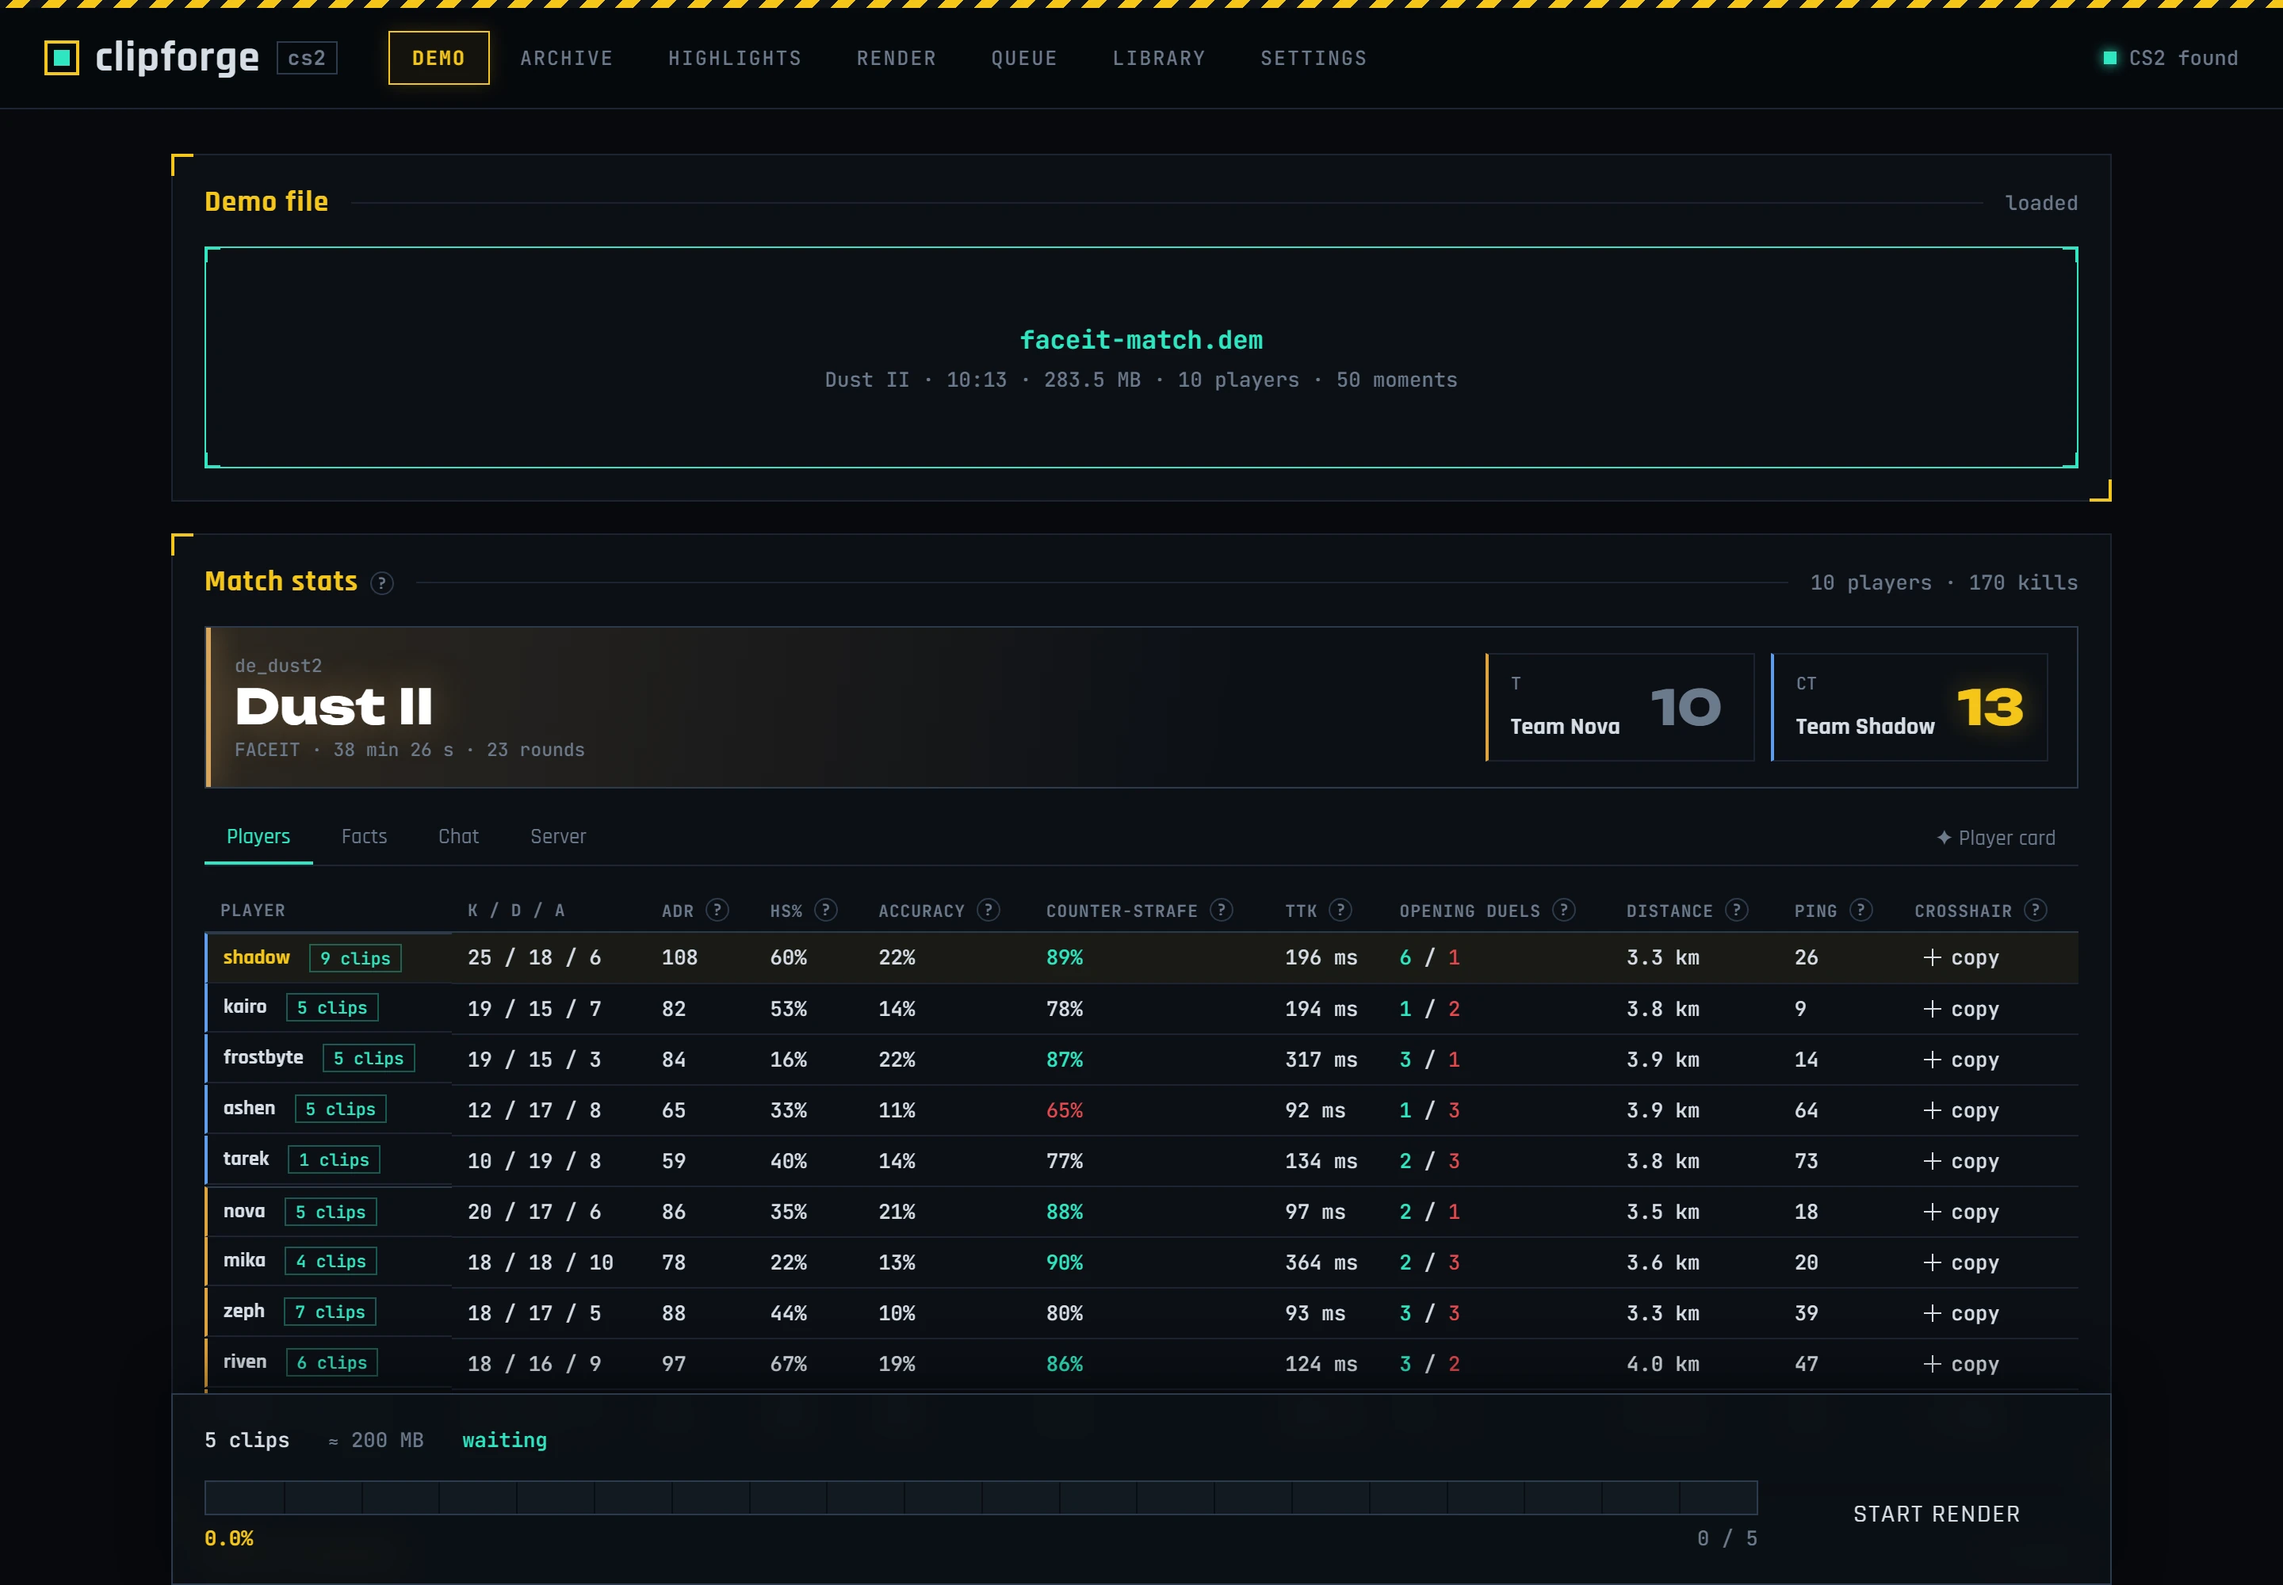
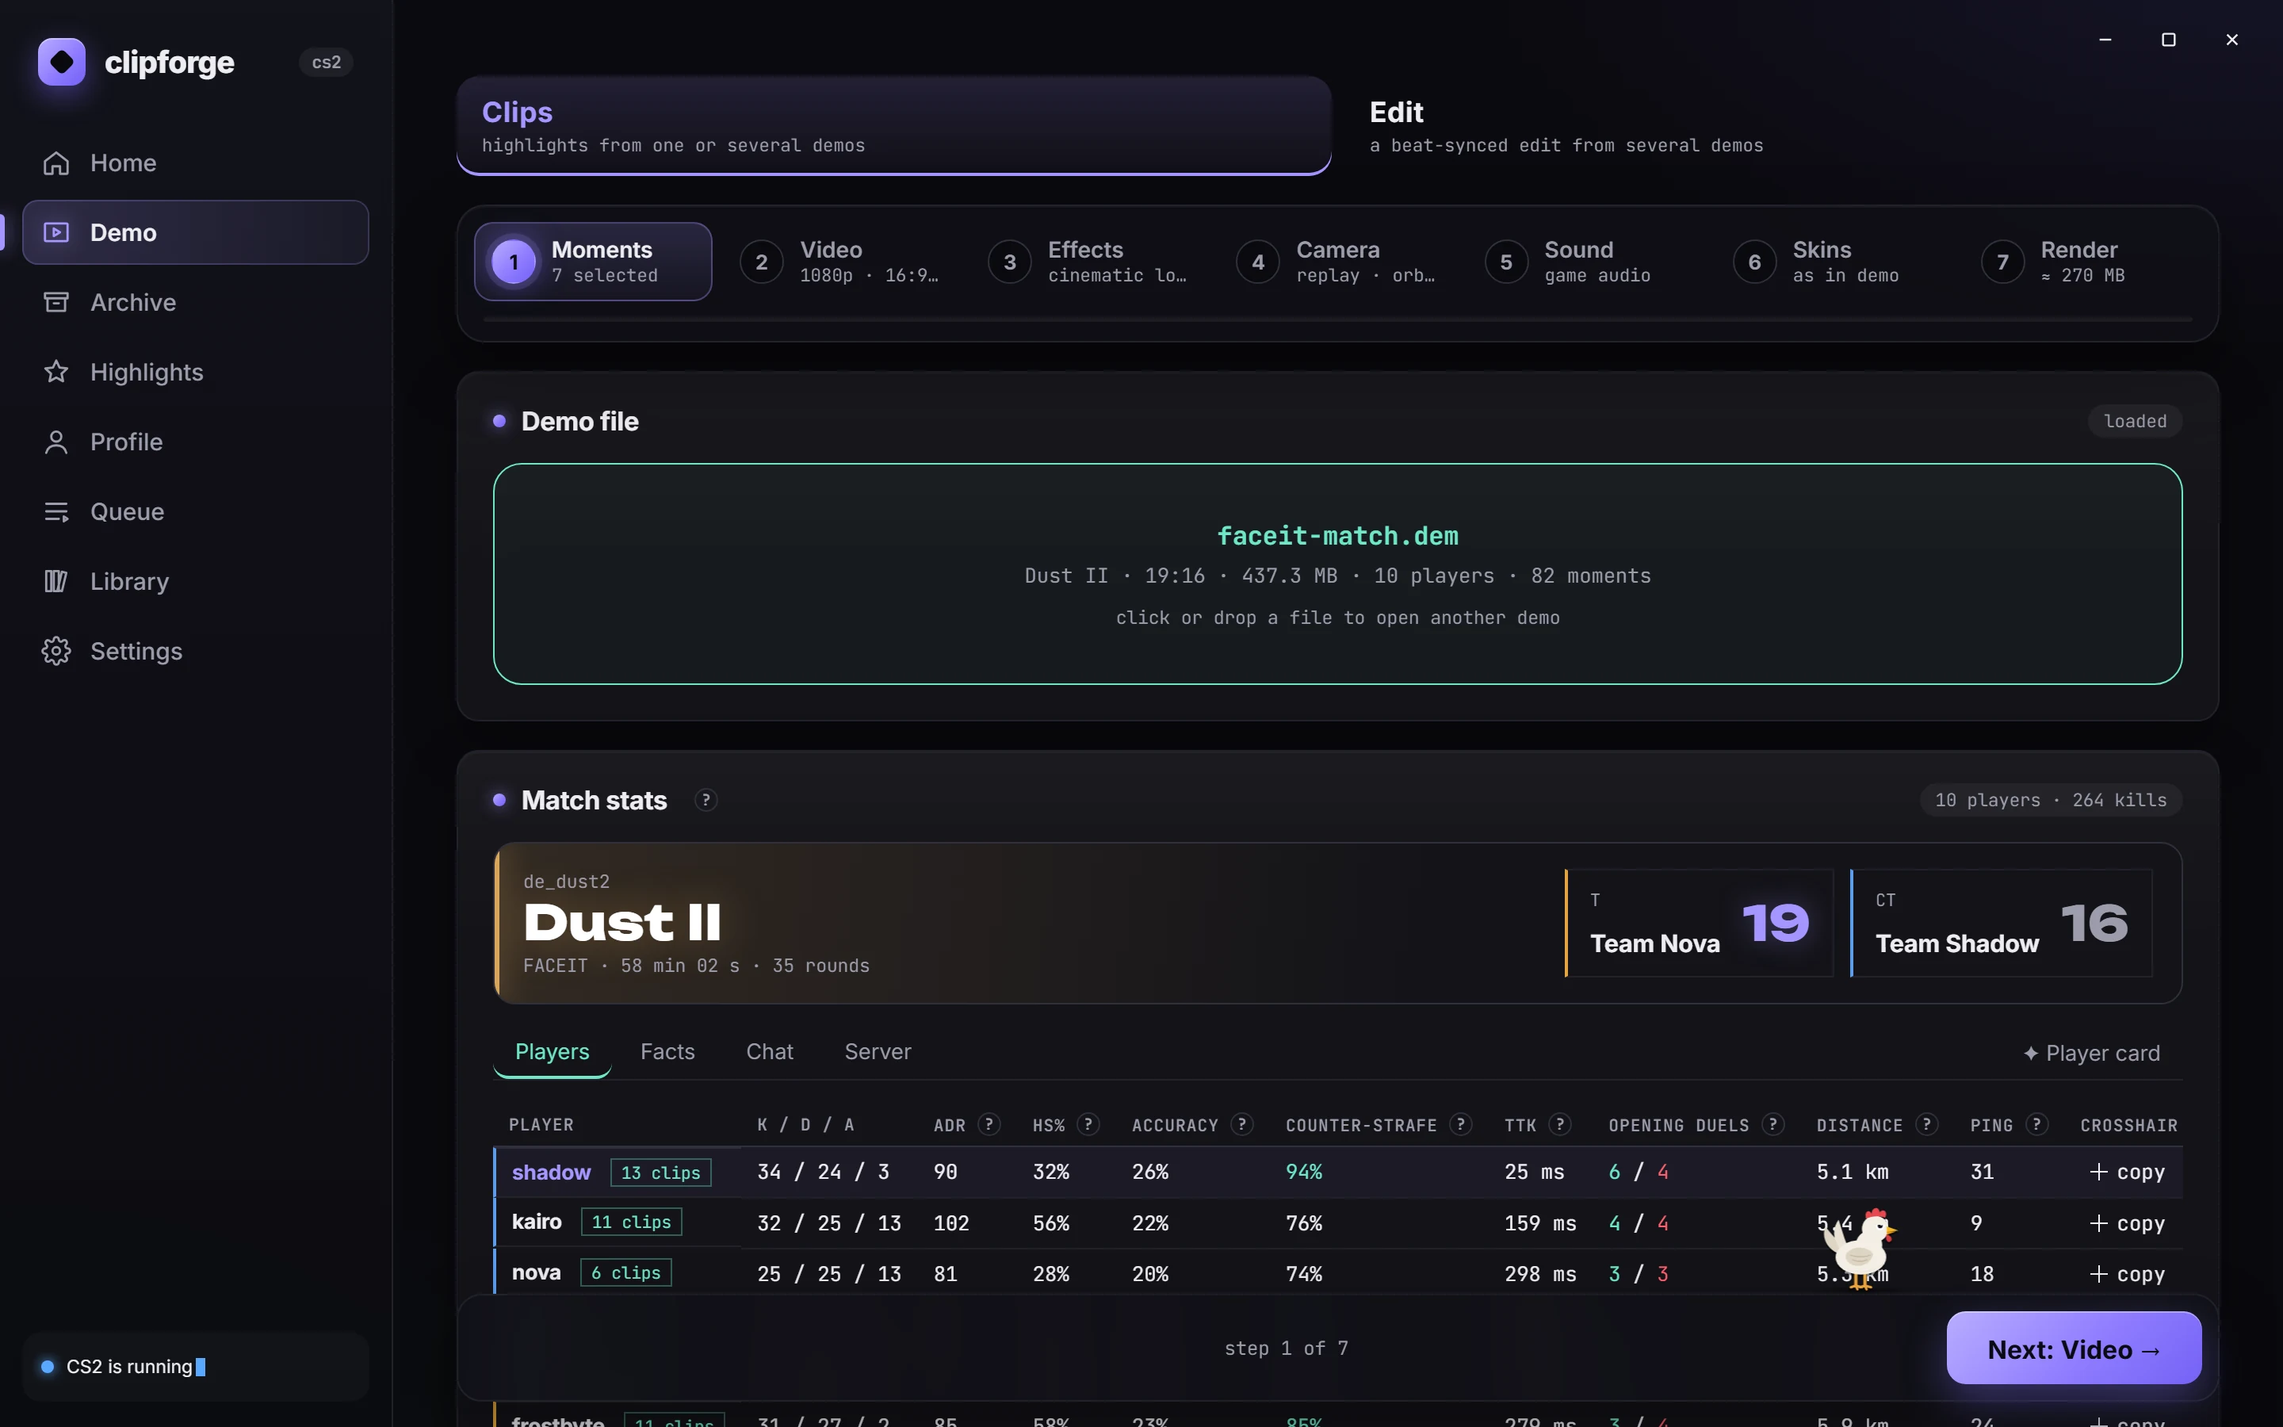
README: Lumen screenshots, step-by-step clips, voice chat and match players

diff --git a/README.md b/README.md
@@ -22,6 +22,17 @@ clipforge finds your best moments, lets you preview them in 3D, records them in-
 
 ## Features
 
+### 🌌 Lumen: a guided look
+Two looks to pick from in **Settings → Appearance**: the classic **Tactical** one and **Lumen**, with a sidebar menu, soft cards and a violet glow.
+- **Clips step by step**: Moments → Video → Effects → Camera → Sound → Skins → Render, with **Back / Next**. The bar on top shows what is set on every step, and any step is one click away
+- The last step sums up everything that goes into the render, and each card takes you back to its step
+- **The chicken shows the way**: it hops onto the panel next to **Next**, sits by **Start render** at the end, and if HLAE or CS2 is missing it stands there with a question. Click it to open Settings
+- **No Windows title bar**: the window buttons live in the app itself, drag the window by the empty space at the top or by the menu
+
+<p align="center"><img src="docs/screenshots/steps-en.webp" alt="Lumen: the render step with the chicken guide" width="100%"></p>
+
+<p align="center"><img src="docs/screenshots/themes-en.webp" alt="Settings: Tactical and Lumen looks" width="100%"></p>
+
 ### ✦ Smart moment picking
 Every round of every player gets a score and tags, the way highlight services do it, but using everything the demo has.
 
@@ -65,6 +76,7 @@ Press **3D** on any moment to watch it right in the app, before CS2 even starts.
 - A **killfeed** with the game's own icons: headshot, wallbang, through smoke, no-scope, blind, assists
 - **With orbit** plays the exact `mirv_campath` that goes to HLAE, so you see where the orbit camera will fly. **Free camera** shows that path as a yellow line
 - A timeline with kill marks, 0.25× / 0.5× / 1× speed and a compact info panel: FPS, tick, weapon, HP, speed, players alive
+- **Voice chat** from FACEIT and community server demos plays along with the moment (Valve matchmaking demos have no voice)
 
 <p align="center"><img src="docs/screenshots/preview3d-en.webp" alt="3D preview: player POV with the weapon, crosshair and killfeed" width="100%"></p>
 
@@ -81,6 +93,7 @@ Change weapon skins, the knife model and finish, and gloves. clipforge writes a 
 - Things the scoreboard doesn't show: crosshair codes (one click to copy), accuracy, counter-strafing, time to kill, opening duels, distance run, chat and server settings. Optional FACEIT levels with your own API key
 - **Profile**: Steam and FACEIT stats, form over the last 30 matches, maps, and what clipforge recorded while you played (hours, matches, weapons). Only matches on Valve servers and FACEIT count
 - **Achievements** in bronze, silver and gold, **Steam friends**, and a side-by-side **comparison** of any two players
+- **Match players** (experimental, off by default): during an MM or Premier game, Home shows both teams with Premier rating, FACEIT level, win rate, headshots and K/D, friends in a party marked with one color, possible smurfs, the best in the lobby and the win chances. It reads SteamIDs from CS2 memory, so turn it on at your own risk
 
 ### 🖼 Highlights gallery, player card and more
 - A gallery of finished clips with previews, sorting, filters and a built-in player
@@ -90,7 +103,7 @@ Change weapon skins, the knife model and finish, and gloves. clipforge writes a 
 - A notification when your highlight is ready
 - **First-run wizard**: finds CS2 in every Steam library, checks HLAE, the highlights folder and free space, and records a 5-second test clip
 - **Auto-updates** with a "What's new" window
-- A chicken lives at the bottom of the window. You can pet it, grab it and throw it, and it wears headphones while you render. It and its sounds can be turned off
+- A chicken lives at the bottom of the window. You can pet it, grab it and throw it, and it wears headphones while you render. In Lumen it walks you through the clip steps. It and its sounds can be turned off
 - English and Russian interface, switched live
 
 <table>
